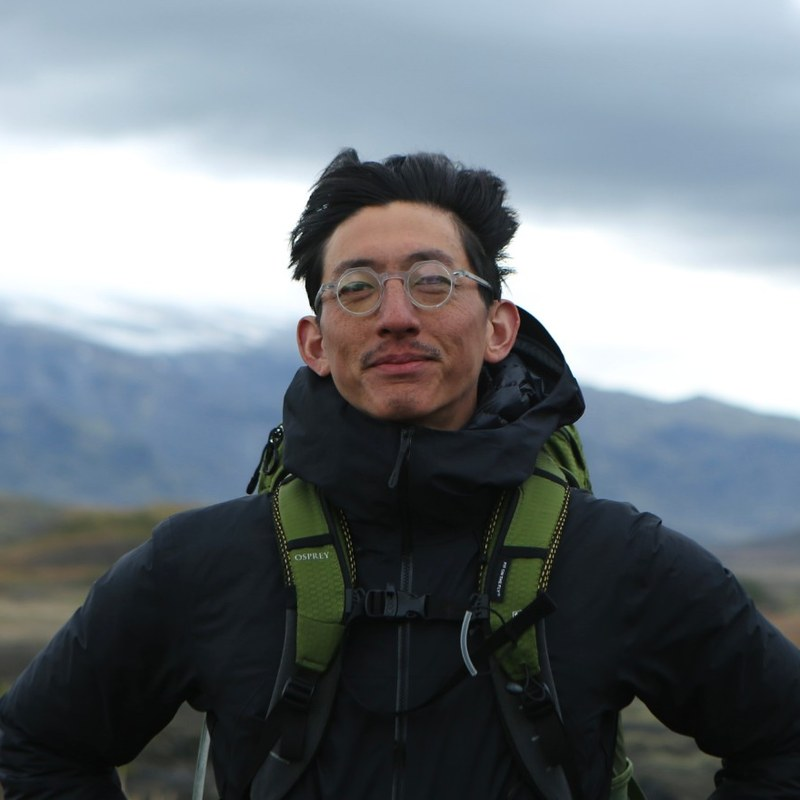
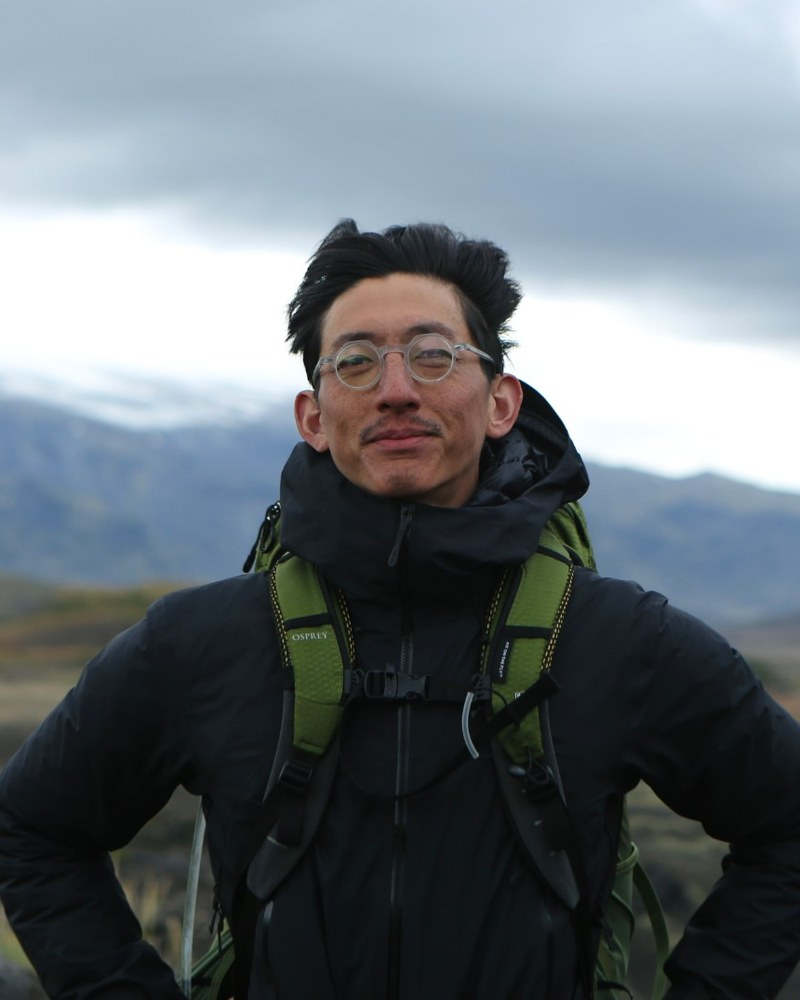
Portrait photo, drop updated date

diff --git a/index.html b/index.html
@@ -40,7 +40,7 @@
                at USC School of Cinematic Arts.</p>
             <p>Don't hesitate to reach out: gaoalexander [at] gmail dot com.</p>
         </div>
-        <img src="images/profile.jpg" alt="Photo of Alexander Gao" width="800" height="800">
+        <img src="images/profile.jpg" alt="Photo of Alexander Gao" width="800" height="1000">
     </section>
 
     <h2>Publications</h2>
@@ -135,7 +135,6 @@
 
     <footer>
         <span>* equal contribution</span>
-        <span>Updated September 2026</span>
     </footer>
 </main>
 </body>
